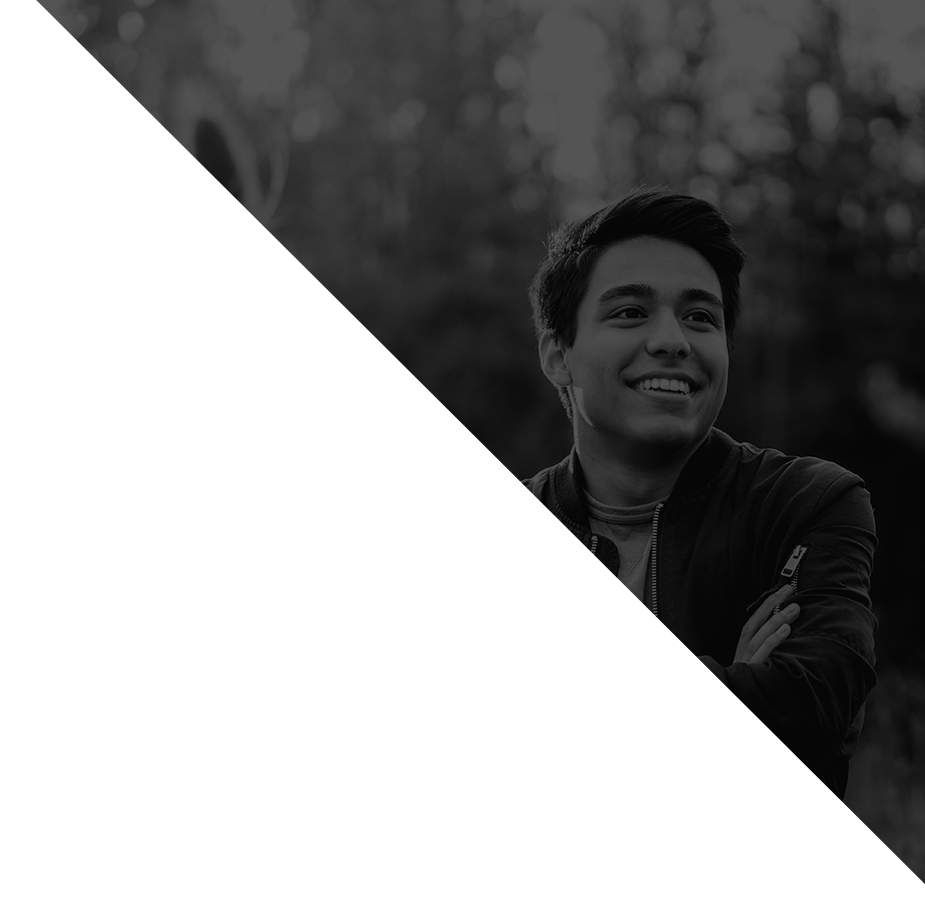
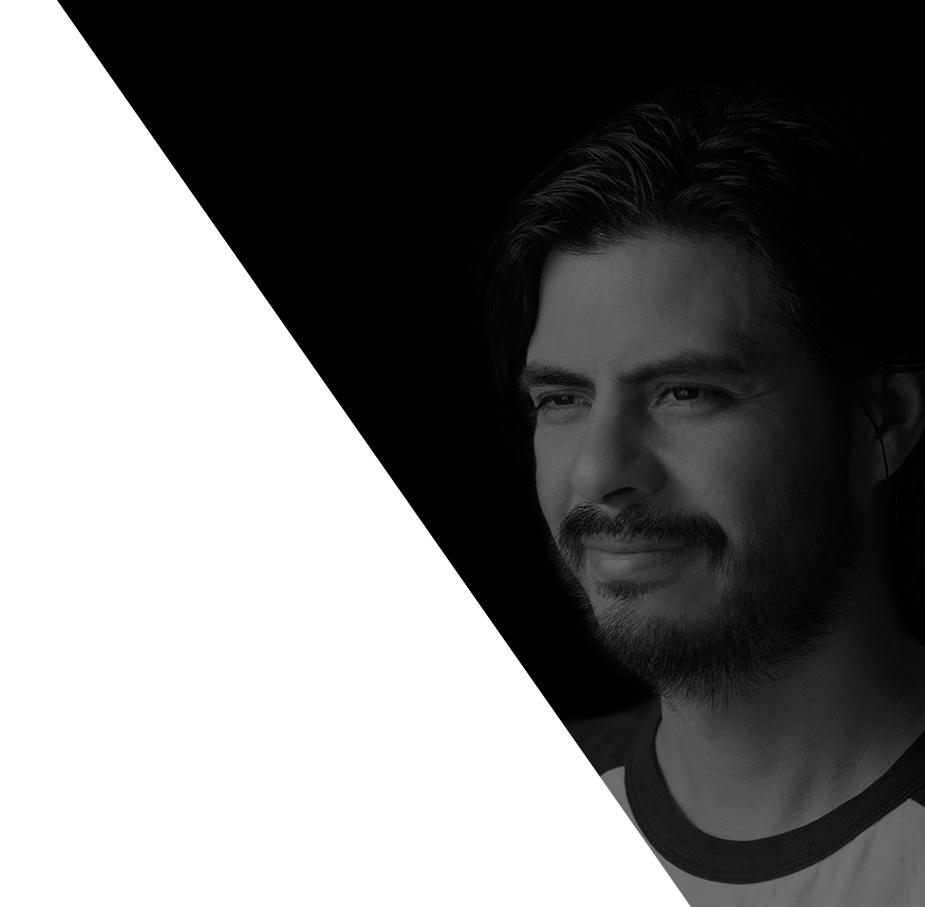
adding real photos

diff --git a/index.html b/index.html
@@ -43,8 +43,8 @@
         <div class="container">
                 <div id="hero">
                         <h3 class="anim1">Hi there I’m Oswaldo Vázquez</h3>
-                        <h1 class="hero_text anim1">I’m a multidisciplinary designer focusing on<br>
-                        user experience, visual and interaction design. </h1>
+                        <h1 class="hero_text anim1">I’m a designer focusing on<br>
+                        user experience & interaction. </h1>
                 </div>
         </div>
 
@@ -59,7 +59,7 @@
                 <div id="trigger1" class="row project reverseMobile justify-content-between">
                     <div class="description col-md-5">
                         <h2 class="anim2">Atlas powered by Sony</h2>
-                        <p class="anim2">Pellentesque suscipit justo eu metus euismod eleifend. Morbi cursus mauris id ante ornare aliquet.</p>
+                        <p class="anim2">Atlas is an internal data vizualitation tool used for the Marketing Department of Sony.</p>
                         <button type="button" class="btn readBtn anim2">Read Case Study<span class="arrow"><img src="./img/arrow.png" alt=""></span></button>
                     </div>
 
@@ -78,9 +78,9 @@
                         </div>
                         
                         <div class="description col-md-5">
-                            <h2 class="anim3">Atlas powered by Sony</h2>
-                            <p class="anim3">Pellentesque suscipit justo eu metus euismod eleifend. Morbi cursus mauris id ante ornare aliquet.</p>
-                            <a href="tripwing.html"  id="trigger3"><button type="button" class="btn readBtn anim3">Read Case Study<span class="arrow"><img src="./img/arrow.png" alt=""></span></button></a>
+                            <h2 class="anim3">Tripwing, Tours Marketplace</h2>
+                            <p class="anim3">Tripwing works with the largest and best tour operators in the world, allowing you to easily search and book your next great vacation.</p>
+                            <a href="tripwing/tripwing.html"  id="trigger3"><button type="button" class="btn readBtn anim3">Read Case Study<span class="arrow"><img src="./img/arrow.png" alt=""></span></button></a>
                         </div>
                         
                 </div>
@@ -115,9 +115,10 @@
                 </div>
                 <div class="row about_content">
                     <div class="col-md-8 white">
-                        <p>Lorem ipsum, dolor sit amet consectetur adipisicing elit. Repellat, est nihil nisi reiciendis dolore recusandae perferendis iusto error vero totam maxime. Amet dolor cum consequatur quae quaerat reprehenderit natus? Voluptate in maiores molestias maxime ab. Molestiae dolore eum maxime autem?</p>
+                        <p>Hi, my name is Oswaldo Vázquez. I started my career as graphic designer and I worked as an Art Director on local agencies before I switched to UX.</p>
 
-                        <p>Lorem ipsum dolor, sit amet consectetur adipisicing elit. Nesciunt quo exercitationem consectetur nihil corporis eveniet, animi minima, optio distinctio quisquam eligendi repellat adipisci illo suscipit magni ullam culpa quod in?</p>
+                        <p>I have more than 7 years of experience working as a remote designer and I'm obsessed with the user experience, that passion has give me the opportinity to work with several talented teams on differents proyects from all around the world.</p>
+
                     </div>
 
                     <div class="col-md-3 yellow">
@@ -184,11 +185,12 @@
     <script src="https://code.jquery.com/jquery-3.3.1.slim.min.js" integrity="sha384-q8i/X+965DzO0rT7abK41JStQIAqVgRVzpbzo5smXKp4YfRvH+8abtTE1Pi6jizo" crossorigin="anonymous"></script>
 <script src="https://cdnjs.cloudflare.com/ajax/libs/popper.js/1.14.7/umd/popper.min.js" integrity="sha384-UO2eT0CpHqdSJQ6hJty5KVphtPhzWj9WO1clHTMGa3JDZwrnQq4sF86dIHNDz0W1" crossorigin="anonymous"></script>
 <script src="https://stackpath.bootstrapcdn.com/bootstrap/4.3.1/js/bootstrap.min.js" integrity="sha384-JjSmVgyd0p3pXB1rRibZUAYoIIy6OrQ6VrjIEaFf/nJGzIxFDsf4x0xIM+B07jRM" crossorigin="anonymous"></script>
-        <script src="./js/main.js"></script>
+        
 
         <script src="https://s3-us-west-2.amazonaws.com/s.cdpn.io/16327/gsap-latest-beta.min.js"></script>
       <script src="https://cdnjs.cloudflare.com/ajax/libs/ScrollMagic/2.0.7/ScrollMagic.min.js"></script>
       <script src="https://cdnjs.cloudflare.com/ajax/libs/ScrollMagic/2.0.7/plugins/animation.gsap.min.js"></script>
+      <script src="./js/main.js"></script>
       <script src="./js/app.js"></script>
 </body>
 </html>

diff --git a/js/case.js b/js/case.js
@@ -6,11 +6,11 @@ var tl4 = gsap.timeline();
 
 const controller = new ScrollMagic.Controller();
 
-tlstart.from(".logo_center", .8, {opacity:0, y: "-=20"}, "+=.3")
-    .from(".case_content", .6, {opacity:0, y:"+=10"}, "+=.3")
+tlstart.from(".logo_center", .6, {opacity:0, y: "-=20"}, "+=.2")
+    .from(".case_content", .5, {opacity:0, y:"+=10"}, "+=.2")
     .from(".info", .4, {opacity:0, y:"-=10"});
 
-tl.from(".anim1", .6, {opacity: 0, x:"-=50", stagger:.3});
+tl.from(".anim1", .4, {opacity: 0, x:"-=50", stagger:.2});
 
 const scene = new ScrollMagic.Scene({
     triggerElement: ".trigger1"
@@ -20,8 +20,8 @@ const scene = new ScrollMagic.Scene({
 .setTween(tl)
     .addTo(controller);
 
-tl2.from(".flow1", .6, {opacity: 0, x:"-=50"})
-    .from(".flow2", .6, {opacity: 0, x:"-=50"})
+tl2.from(".flow1", .4, {opacity: 0, x:"-=50"})
+    .from(".flow2", .4, {opacity: 0, x:"-=50"})
 
 const scene2 = new ScrollMagic.Scene({
     triggerElement: ".trigger2"
@@ -31,8 +31,8 @@ const scene2 = new ScrollMagic.Scene({
 .setTween(tl2)
     .addTo(controller);
 
-tl3.from(".ui1", .6, {opacity: 0, y:"-=50"})
-.from(".ui2", .6, {opacity: 0, y:"-=50"})
+tl3.from(".ui1", .4, {opacity: 0, y:"-=50"})
+.from(".ui2", .4, {opacity: 0, y:"-=50"})
 
 const scene3 = new ScrollMagic.Scene({
     triggerElement: ".trigger3"
@@ -42,8 +42,8 @@ const scene3 = new ScrollMagic.Scene({
 .setTween(tl3)
     .addTo(controller);
 
-tl4.from(".mock1", .6, {opacity: 0, y:"+=50"})
-.from(".mock2", .6, {opacity: 0, y:"+=50"})
+tl4.from(".mock1", .4, {opacity: 0, y:"+=50"})
+.from(".mock2", .4, {opacity: 0, y:"+=50"})
 
 const scene4 = new ScrollMagic.Scene({
     triggerElement: ".trigger4"

diff --git a/js/app.js b/js/app.js
@@ -10,15 +10,15 @@ tlstart.from("#background", 1, {opacity:0, y: "-=20"}, "+=.3")
     .from(".sectionProjects", .2, {opacity:0, y:10}, "-=1");
 
 
-tl.from(".anim2", .6, {opacity: 0, x:"-=200", stagger:.2})
-    .from(".projectThumb1", .4, {opacity:0, x:"+=20"}, "-=.8");
+tl.from(".anim2", .5, {opacity: 0, x:"-=200", stagger:.2})
+    .from(".projectThumb1", .4, {opacity:0, x:"+=20"}, "-=.6");
     
 
-tl2.from(".anim3", .6, {opacity: 0, x:"+=50", stagger:.2})
-    .from(".projectThumb2", .4, {opacity:0, x:"-=20"}, "-=.9");
+tl2.from(".anim3", .5, {opacity: 0, x:"+=50", stagger:.2})
+    .from(".projectThumb2", .4, {opacity:0, x:"-=20"}, "-=.6");
 
 
-tl3.from(".anim4",.6, {opacity:0, y: "-=10", stagger: .3});
+tl3.from(".anim4",.5, {opacity:0, y: "-=10", stagger: .2});
     
 
 

diff --git a/js/main.js b/js/main.js
@@ -1,6 +1,7 @@
 const nav = document.querySelector("nav");
 const hero = document.querySelector("#hero");
 
+
 const sectionOneOptions = {
     rootMargin: "-50px 0px 0px 0px"
 };
@@ -10,9 +11,14 @@ const sectionOneObserver = new IntersectionObserver(function (entries, sectionOn
         if(!entry.isIntersecting) {
             nav.classList.remove("navWhite");
             nav.classList.add("solidNav");
+            
+            
         } else {
             nav.classList.add("navWhite");
             nav.classList.remove("solidNav");
+
+           
+            
         }
     })
 }, sectionOneOptions);

diff --git a/css/style.css b/css/style.css
@@ -145,6 +145,25 @@ h3 {
     margin-bottom: 75px;
 }
 
+.secondaryBtn:focus a {
+    border: none;
+}
+
+.secondaryBtn a {
+    text-decoration: none;
+    color: var(--yellow-color);
+}
+
+.secondaryBtn:hover a {
+    text-decoration: none;
+    color: var(--almost-black-color);
+}
+
+.secondaryBtn:hover {
+    background-color: var(--yellow-color);
+    color: var(--almost-black-color);
+}
+
 .arrow {
     margin-left: 10px;
 }

diff --git a/tripwing/tripwing.html b/tripwing/tripwing.html
@@ -204,7 +204,7 @@
         
             <div class="container realCenter">
                 <div class="row realCenter col-md-12 justify-content-md-center">
-                    <button type="button" class="btn secondaryBtn">Back to Home</button>
+                    <button type="button" class="btn secondaryBtn"><a href="../index.html">Back to Home</a></button>
                 </div>
             </div>
 
